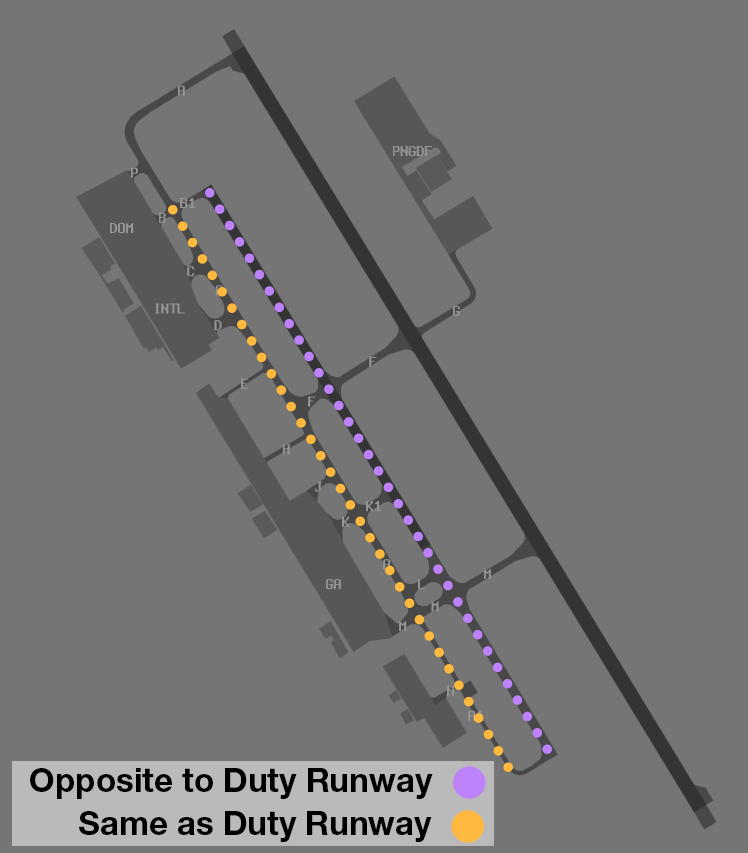
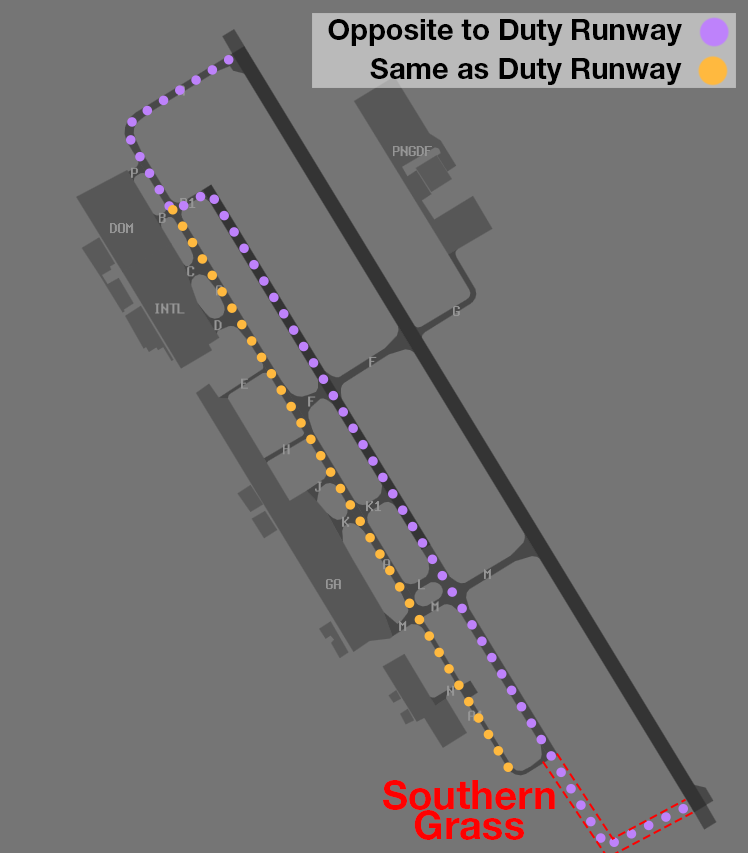
aypy grass

diff --git a/docs/worldflight/Aerodromes/portmoresby.md b/docs/worldflight/Aerodromes/portmoresby.md
@@ -23,6 +23,8 @@ PDCs will be in use by default, to avoid frequency congestion. ACD shall send a 
 ### Runway 14R/32L
 Runway 14R/32L will be used for taxiing. The Runway is released to SMC by default.
 
+*Southern Grass* Taxiway shall be used for Runway 32R departures queuing. It may also be used for Runway 14L Arrivals vacating.
+
 Standard taxi directions are shown below.
 
 <figure markdown>
